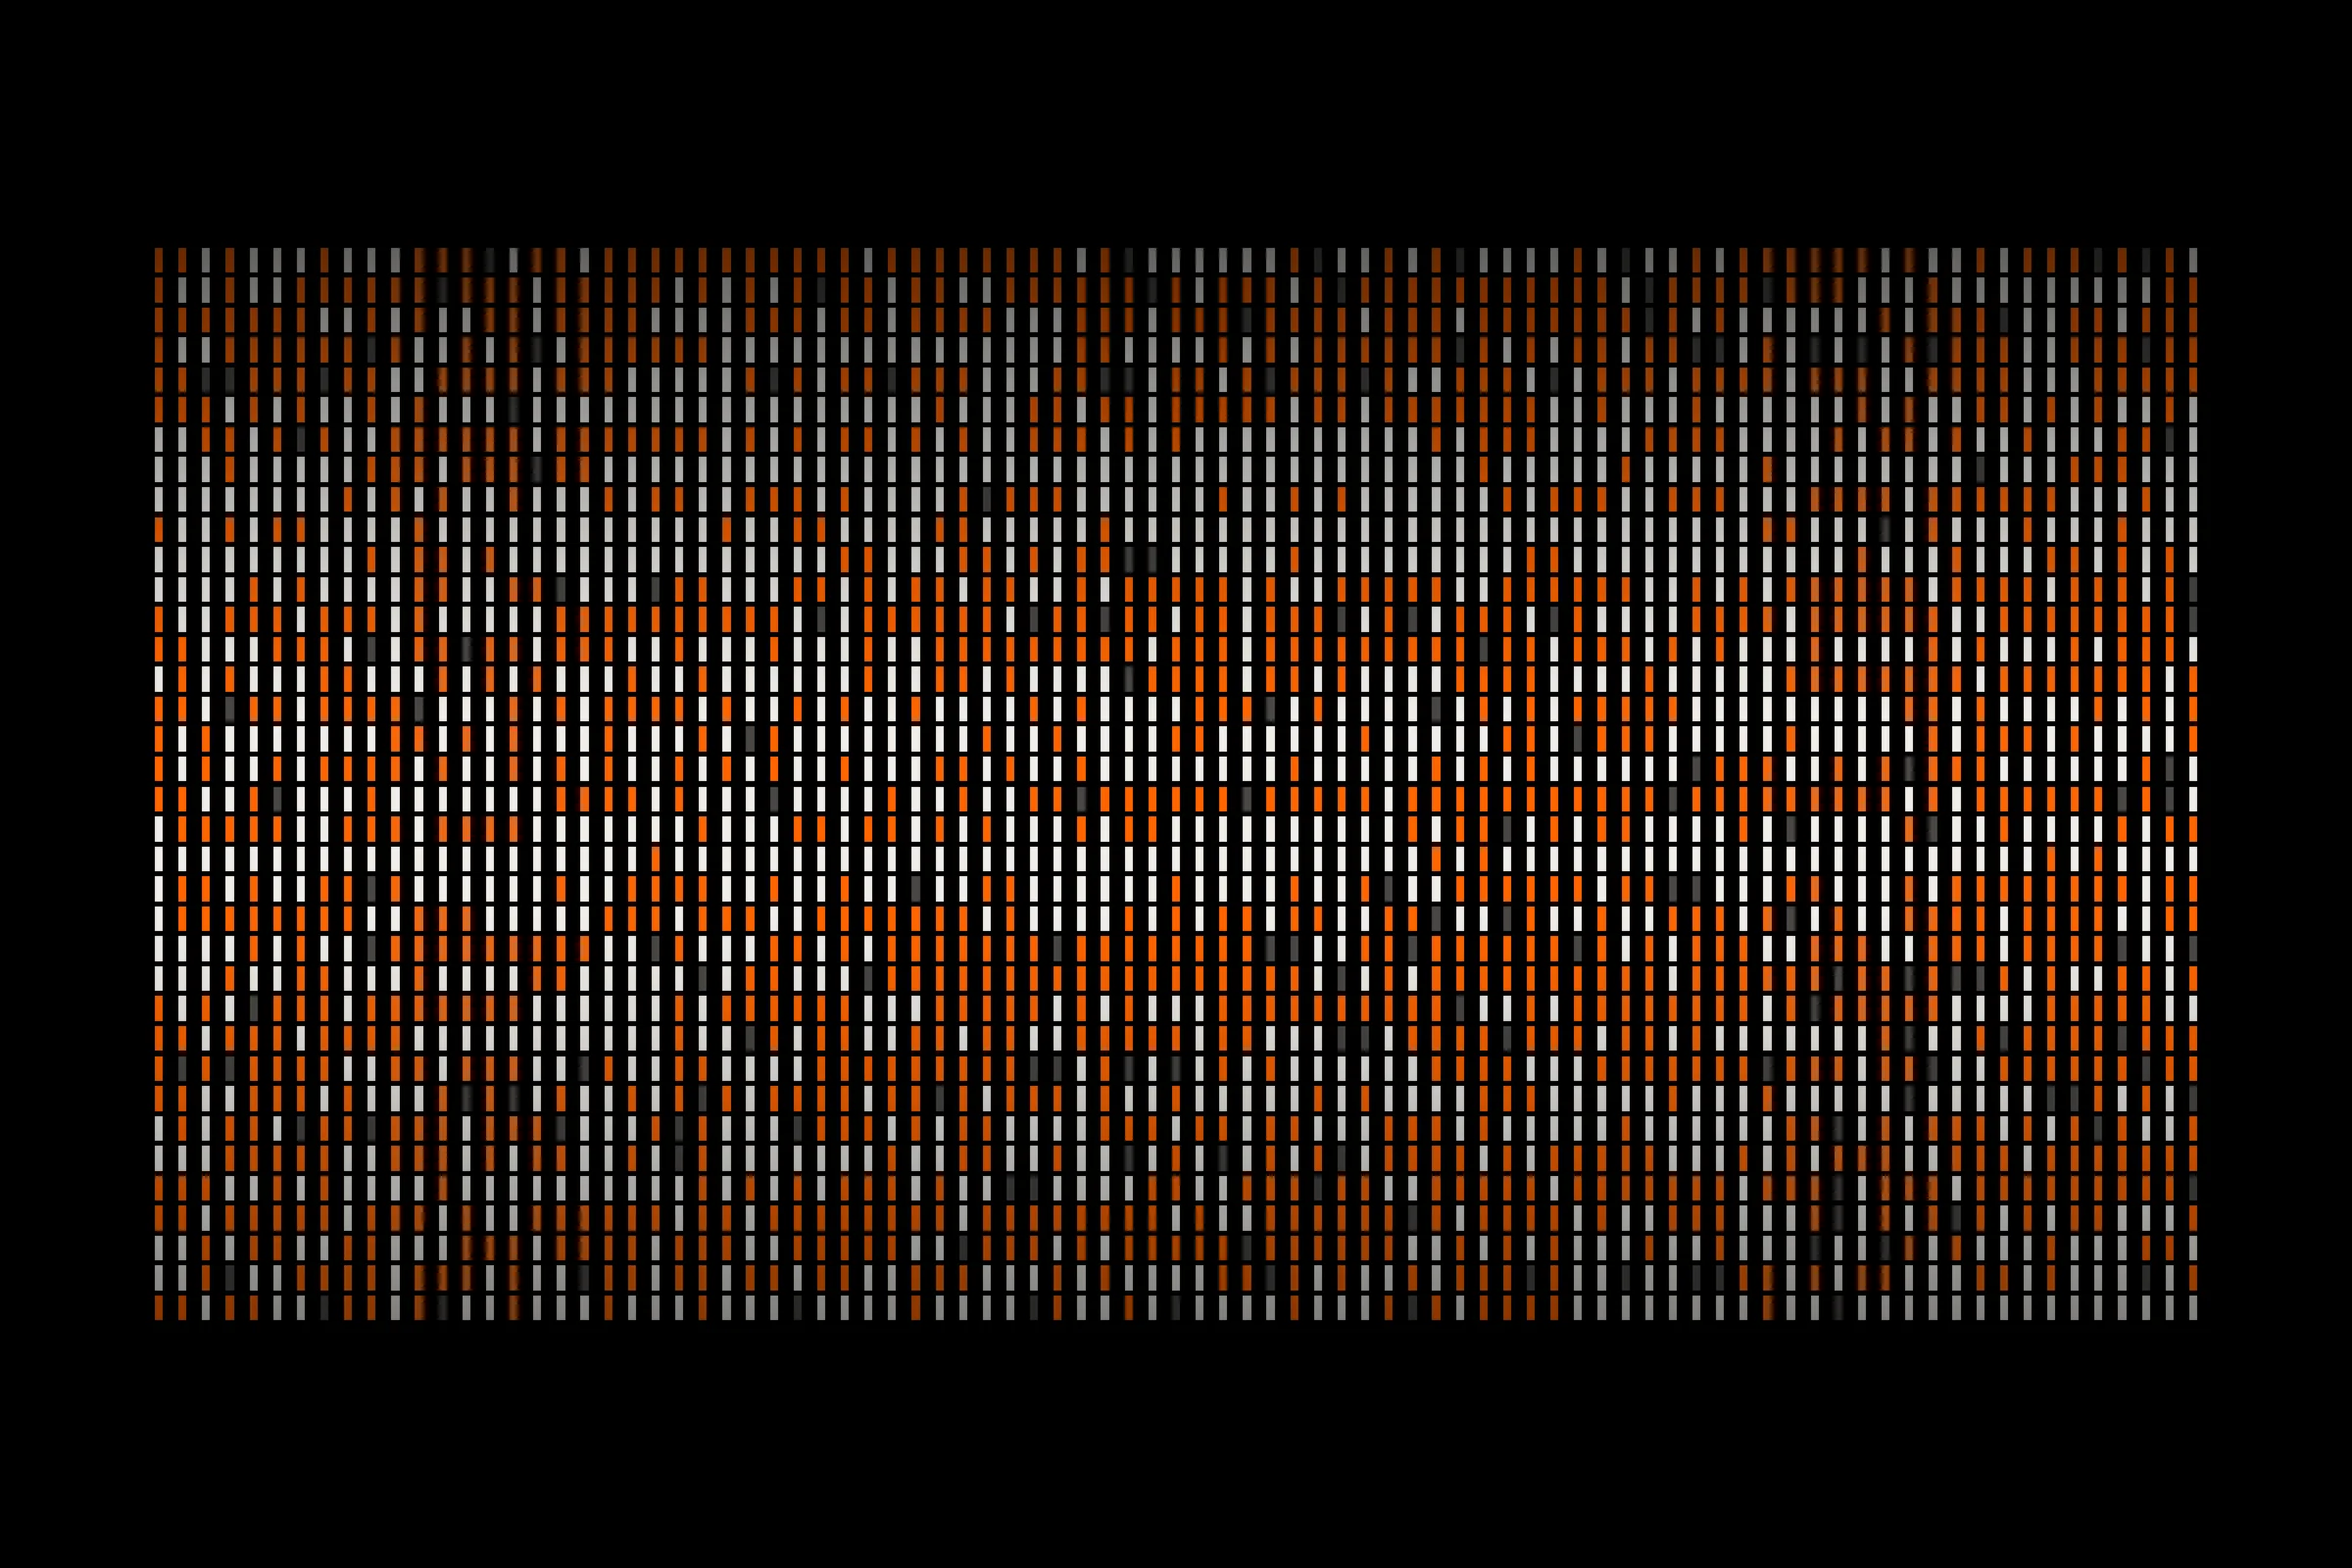
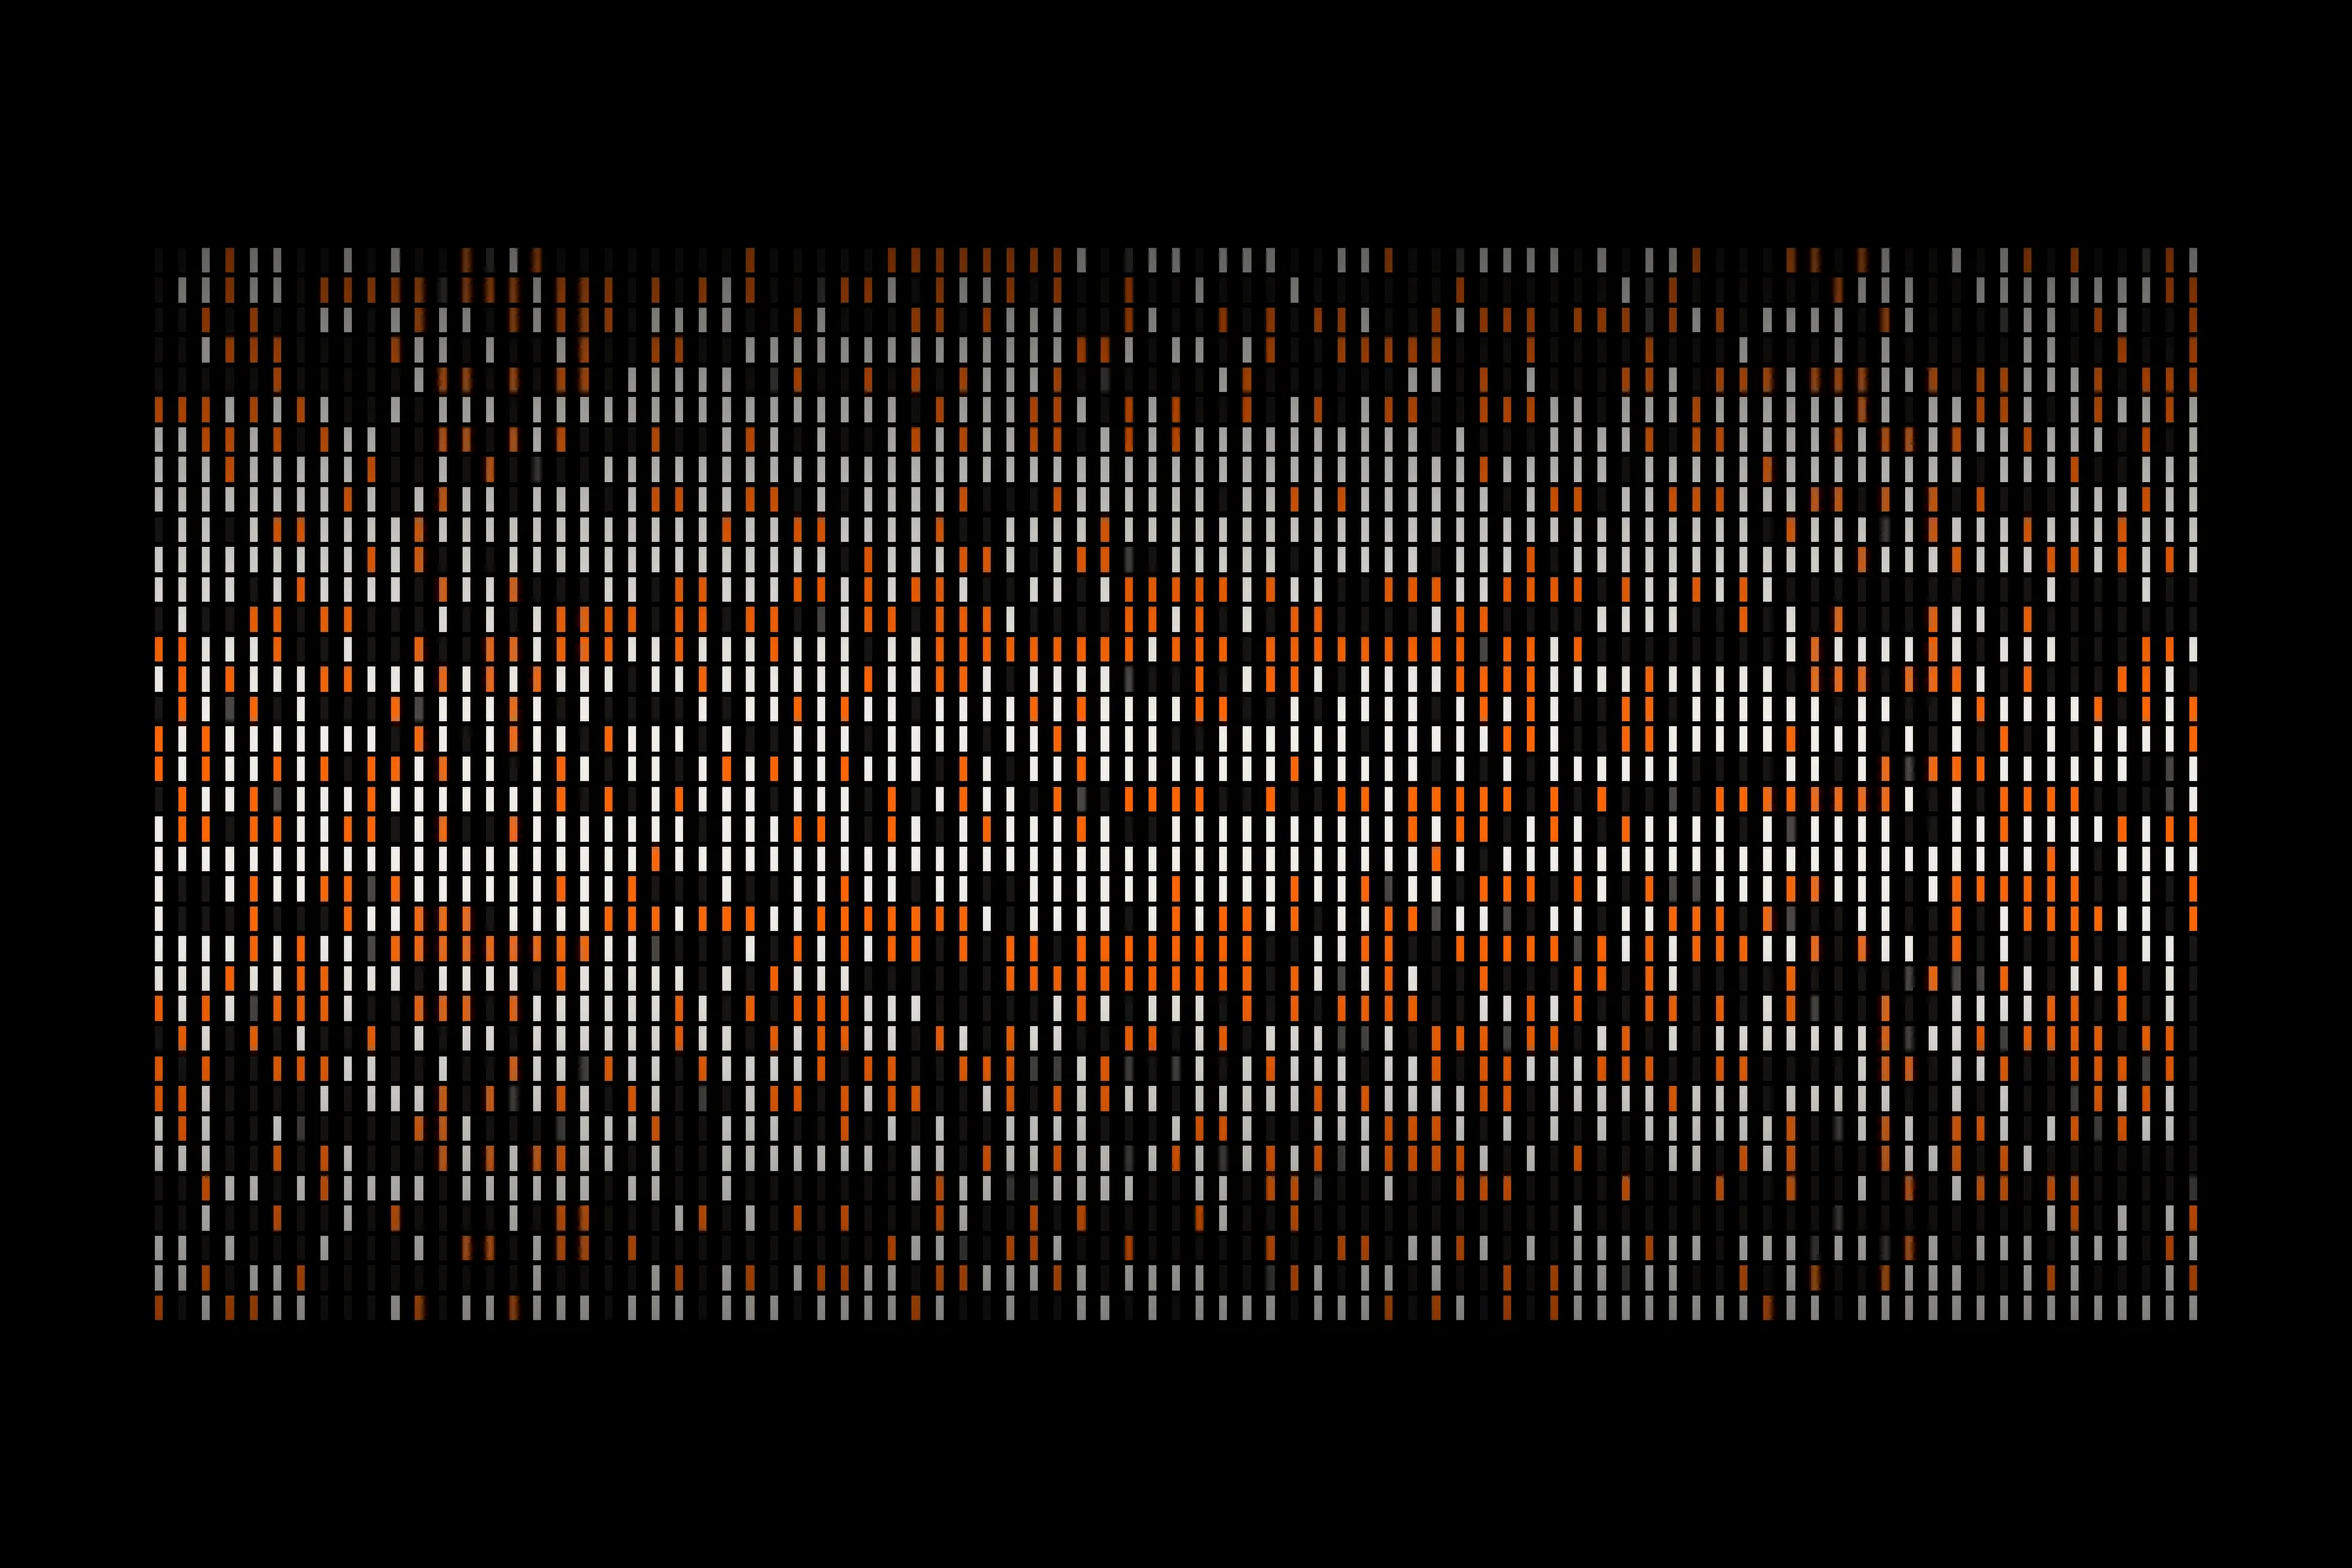
capa: o silencio vira a quarta cor, e o ambar para de mentir
O campo pintava idioma etiquetado, entao os 879 arquivos sem fala (que o Whisper
chuta como ingles) entravam no ambar e o desenho dizia metade em ingles. Agora a
cor sai do que foi DITO dentro do arquivo: 1.382 fala em pt, 798 fala em ingles,
73 outros idiomas, 879 quase pretos. O silencio aparece como buraco no campo, que
e o que ele e. Grade 87 x 36 intacta, nenhuma celula de enfeite.

Claude-Session: https://claude.ai/code/session_01Q7C9HFRxaFqn3QFcpauwG6

diff --git a/src/content/articles/the-label-that-learned-to-ask-itself.ts b/src/content/articles/the-label-that-learned-to-ask-itself.ts
@@ -48,8 +48,11 @@
 // entra se puder ser sustentado.
 //
 // CAPA. Não é foto nem ilustração: é o próprio acervo desenhado. Cada tracinho é
-// um dos 3.132 arquivos falados, na ordem real do índice, colorido pelo idioma que
-// a máquina ouviu (pergaminho = português, âmbar = inglês, cinza = os outros 16).
+// um dos 3.132 arquivos com áudio, na ordem real do índice, colorido pelo que a
+// máquina ouviu DENTRO dele (pergaminho = fala em português, âmbar = fala em
+// inglês, cinza = os outros 16 idiomas, quase preto = os 879 sem fala nenhuma).
+// O quase preto é o conserto de 23/08/2026: sem separar o silêncio, o âmbar dobra
+// e o campo mente dizendo metade em inglês.
 // A grade é 87 x 36, que é exatamente 3.132: nenhuma célula é enfeite. Gerador em
 // `TBF SYSTEM/operacao/acervo/gerar-capa-substrato.py`, que reproduz o arquivo
 // publicado byte a byte.
@@ -197,12 +200,12 @@ export const theLabelThatLearnedToAskItself: ManifestoArticle = {
       kind: 'image',
       src: '/images/editorial/substrato-capa.webp',
       alt: {
-        en: 'Field of 3,132 marks, one per spoken file, coloured by language.',
-        pt: 'Campo de 3.132 marcas, uma por arquivo falado, colorido por idioma.',
+        en: 'Field of 3,132 marks, one per audio file, coloured by what was said inside it.',
+        pt: 'Campo de 3.132 marcas, uma por arquivo com áudio, colorido pelo que foi dito dentro dele.',
       },
       caption: {
-        en: 'This is the finding, drawn. Every mark is one file: parchment for Portuguese, amber for English, grey for the other sixteen languages, in the order the index holds them. The grid is 87 by 36, which is exactly 3,132, so no cell is decoration. Made by a script that reads the database, not by hand.',
-        pt: 'Este é o achado, desenhado. Cada marca é um arquivo: pergaminho para português, âmbar para inglês, cinza para os outros dezesseis idiomas, na ordem em que o índice os guarda. A grade é 87 por 36, que dá exatamente 3.132, então nenhuma célula é enfeite. Feito por um script que lê o banco, não à mão.',
+        en: 'This is the finding, drawn. Every mark is one file: parchment for speech in Portuguese, amber for speech in English, grey for the other sixteen languages, and near black for the 879 files where nobody speaks at all. The grid is 87 by 36, which is exactly 3,132, so no cell is decoration. Made by a script that reads the database, not by hand.',
+        pt: 'Este é o achado, desenhado. Cada marca é um arquivo: pergaminho para fala em português, âmbar para fala em inglês, cinza para os outros dezesseis idiomas, e quase preto para os 879 arquivos em que ninguém fala nada. A grade é 87 por 36, que dá exatamente 3.132, então nenhuma célula é enfeite. Feito por um script que lê o banco, não à mão.',
       },
       credit: '.TBF. inc',
       variant: 'plate',
